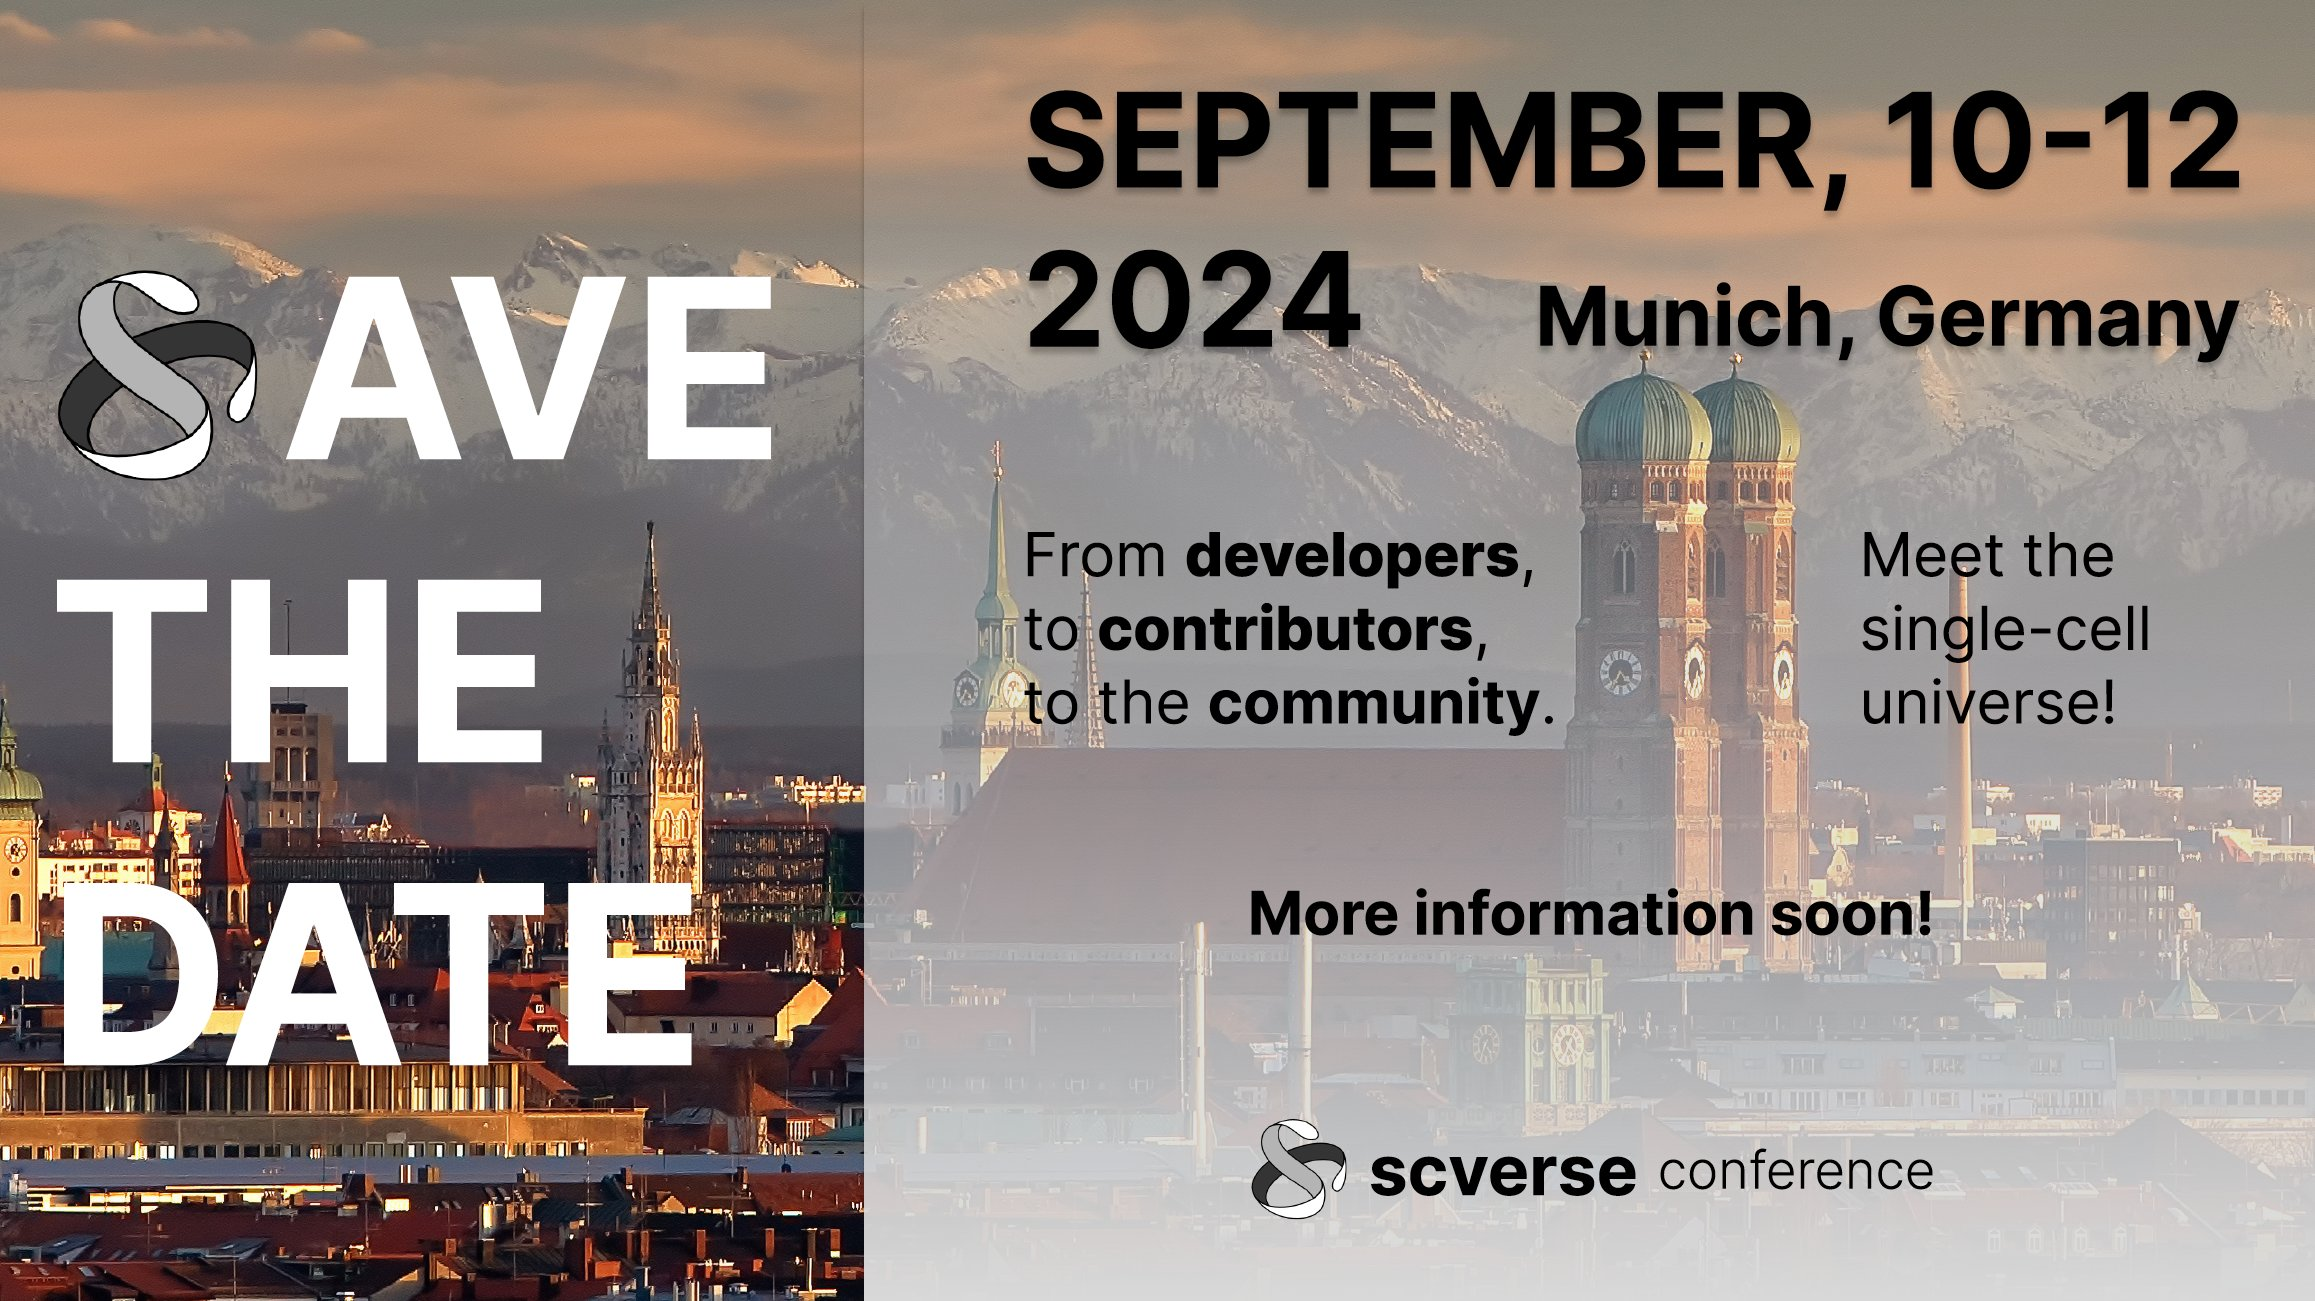
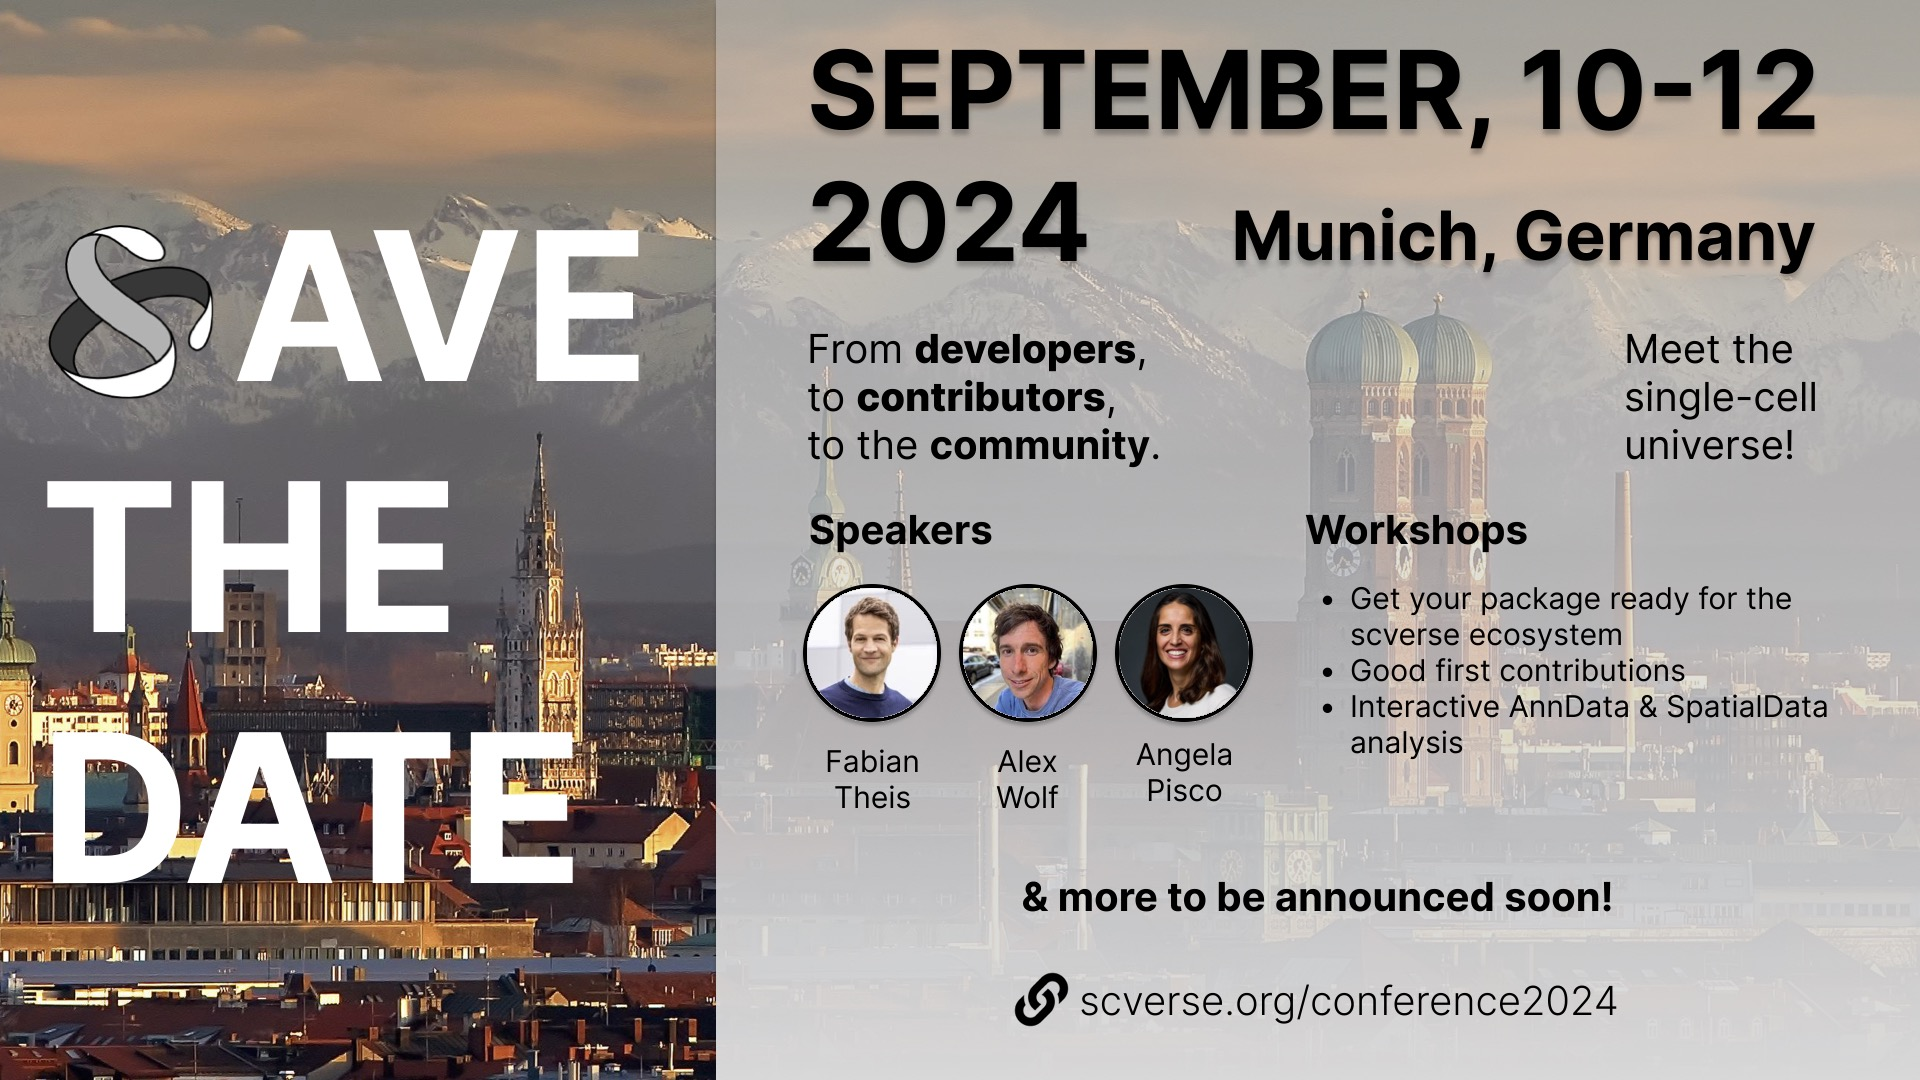
add conference website link (#124)
* Add conference website link

* Conference registration is open

diff --git a/content/events/2024_09_conference.md b/content/events/2024_09_conference.md
@@ -5,6 +5,8 @@ description = "scverse conference"
 draft = false
 +++
 
-Join us for the first scverse conference taking place from **Monday, September 10th** to **Wednesday, September 12th** in **Munich, Germany**. Stay tuned for the registrations, speaker announcements, and more!
+Join us for the first scverse conference taking place from **Monday, September 10** to **Wednesday, September 12** in **Munich, Germany**. Stay tuned for the registrations, speaker announcements, and more!
 
-<img src="/img/events/2024_09_conference_savethedate.jpeg" style="max-width: 100%;" alt="conference save-the-date" />
+[The registration is now open!](https://scverse.org/conference2024/)
+
+<a href="https://scverse.org/conference2024/"> <img src="/img/events/2024_09_conference_savethedate.jpeg" style="max-width: 100%;" alt="conference save-the-date" /> </a>
